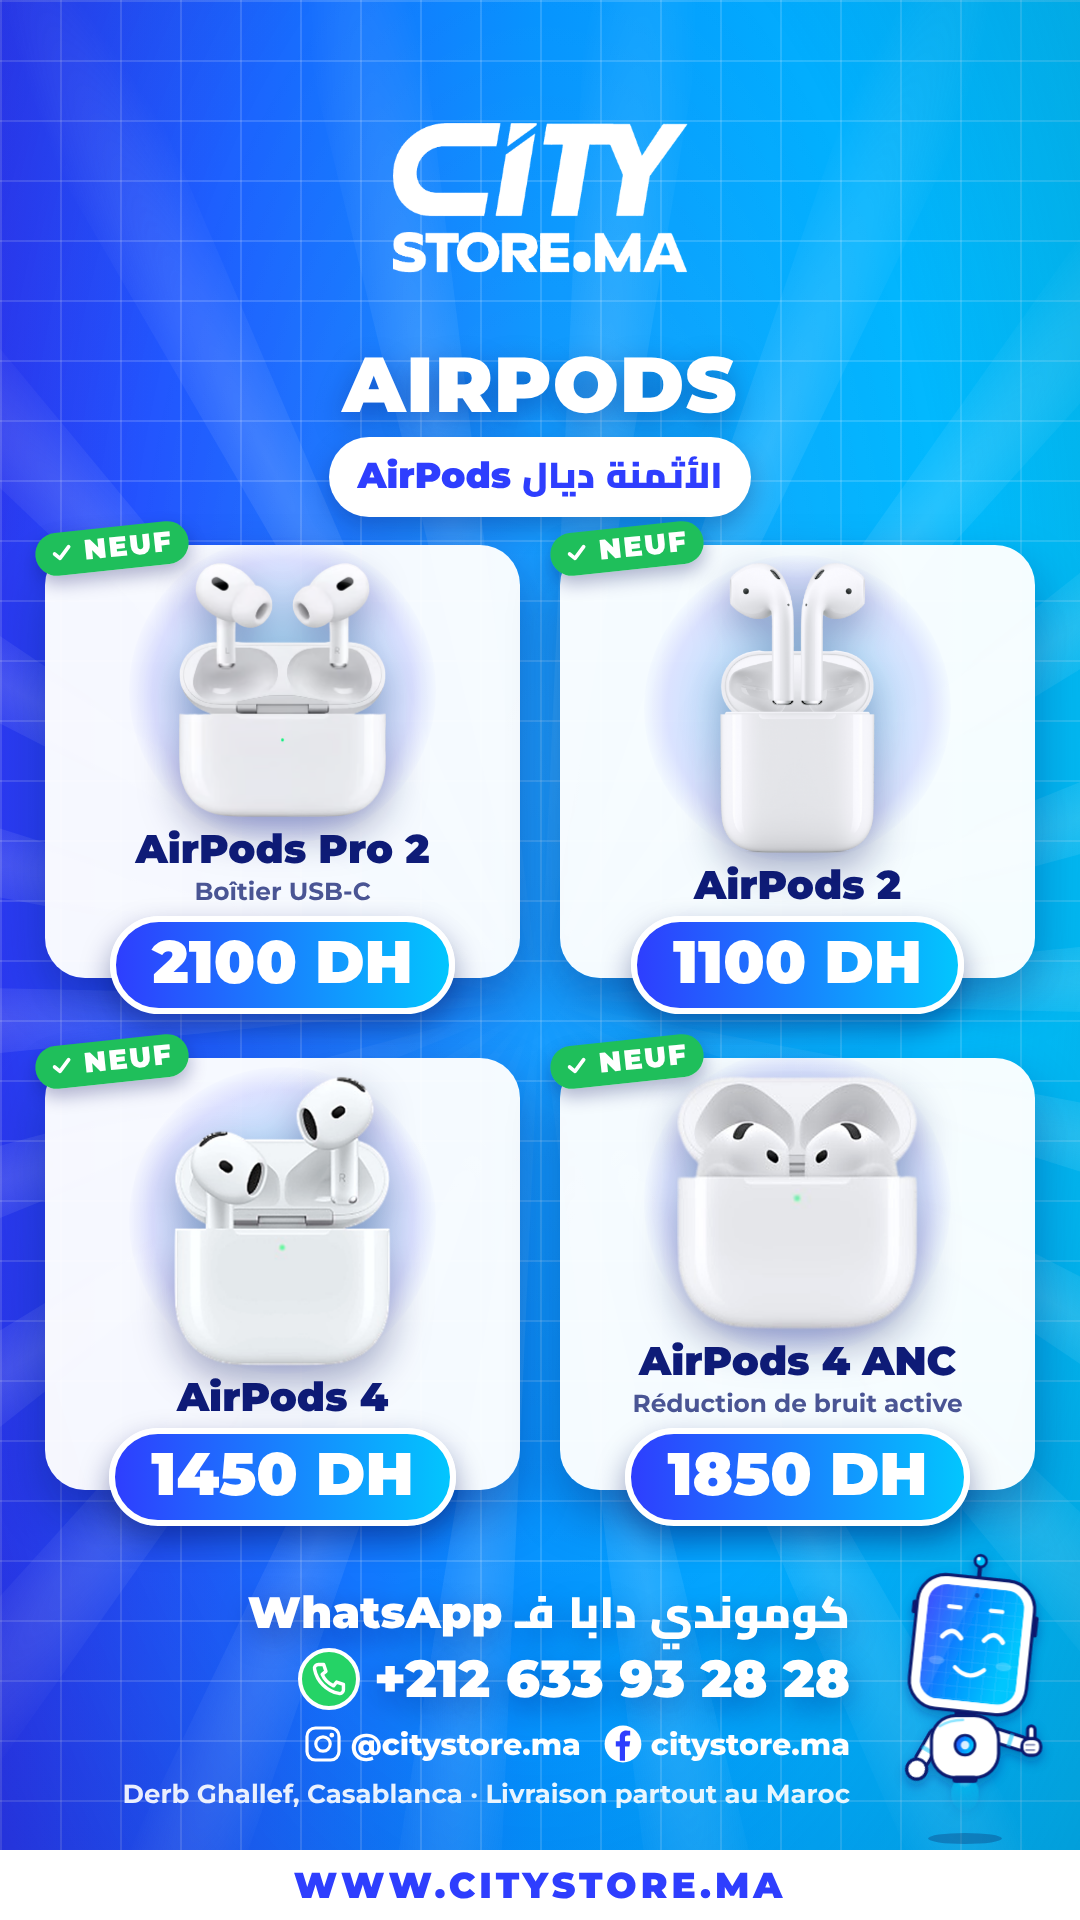
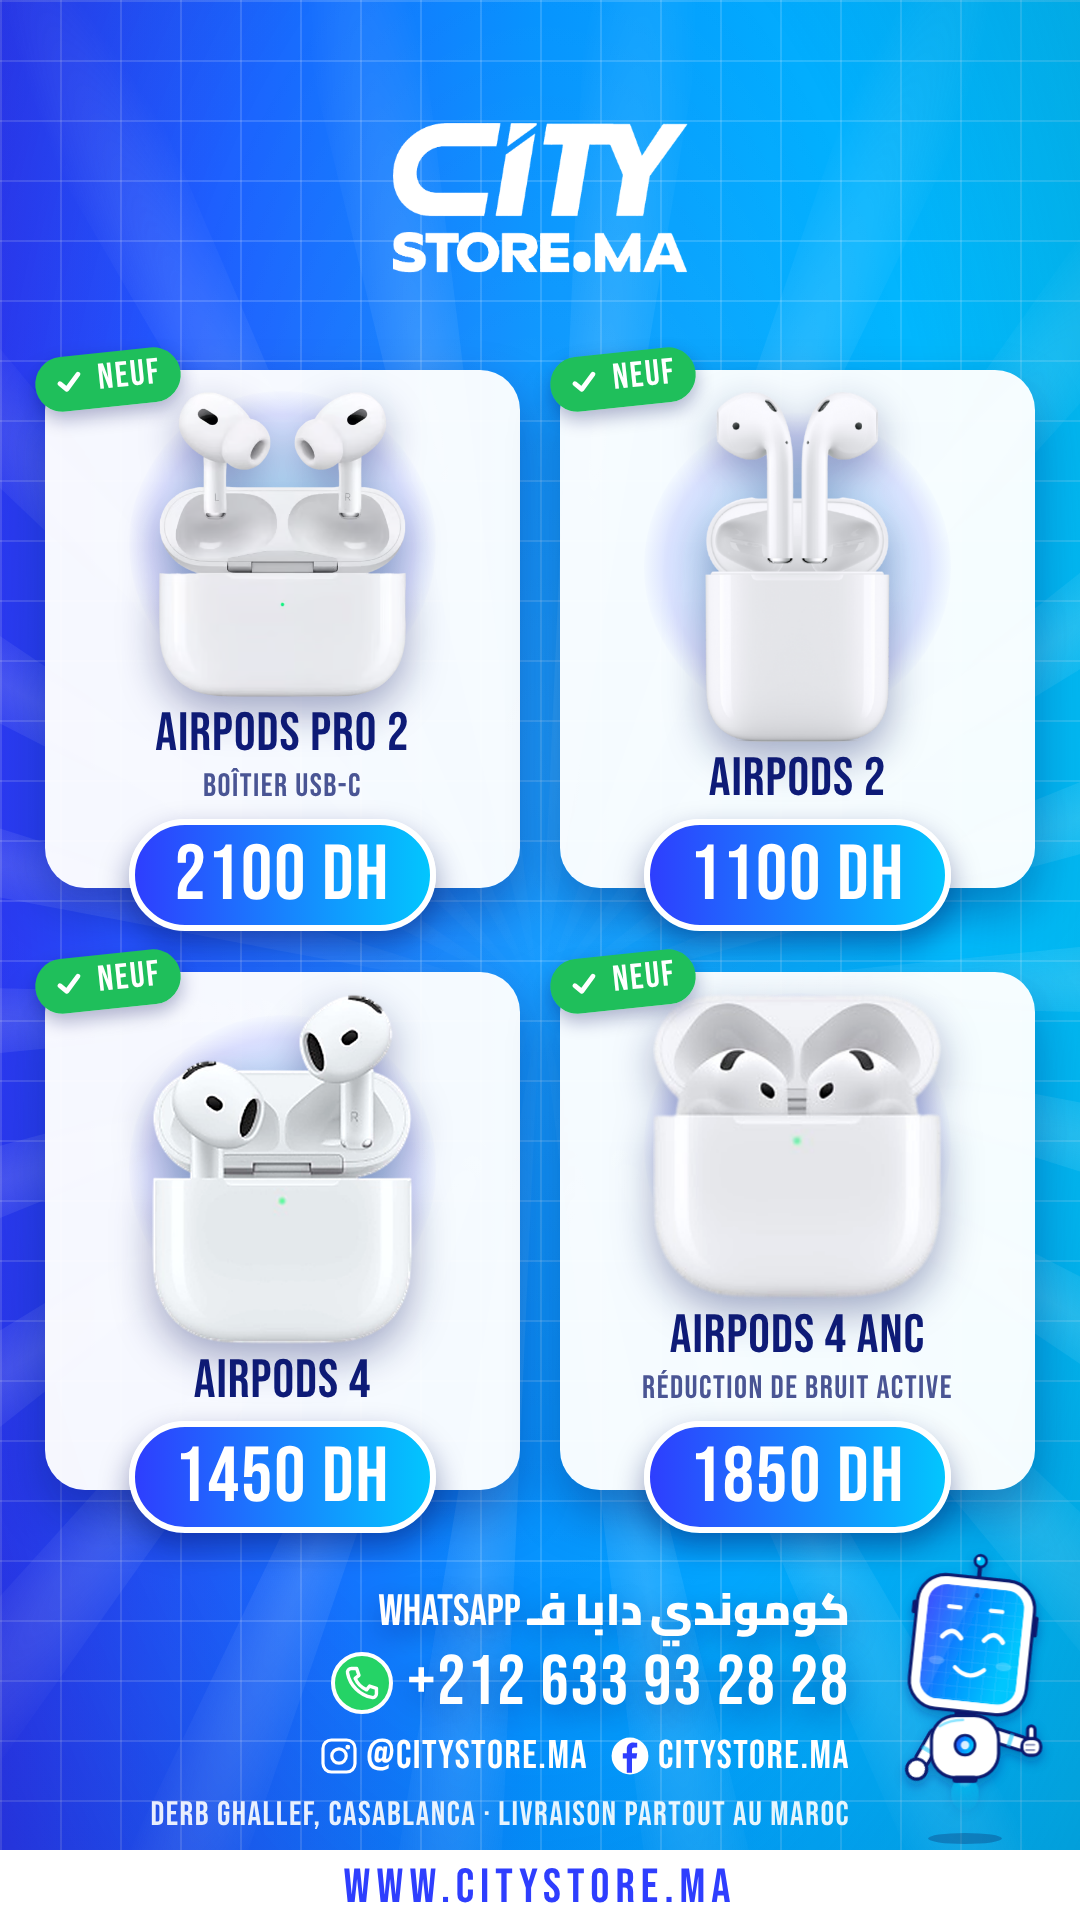
Price list: Bebas Neue font, optional header (removed on the AirPods list)
Claude-Session: https://claude.ai/code/session_01B6UvVnyVQqoyQ1GwELGaCV

Changed region(s): [[0.0306, 0.1562, 0.9778, 1.0]]

diff --git a/src/pricelist/PriceList.tsx b/src/pricelist/PriceList.tsx
@@ -1,6 +1,6 @@
 import React from "react";
 import { AbsoluteFill, Img, staticFile } from "remotion";
-import { COLORS, FONT } from "../brand";
+import { COLORS, FONT_DISPLAY } from "../brand";
 import { BrandBackground } from "../components/BrandBackground";
 import { FacebookGlyph, LineIcon } from "../components/Icons";
 import { Burst } from "../components/SceneShell";
@@ -24,19 +24,22 @@ export type PriceItem = {
   rotate?: number;
 };
 export type PriceListProps = {
-  title: string;
+  /** optional header under the logo; without title and subtitle the cards move up */
+  title?: string;
   subtitle?: string; // small pill under the title (Darija or French)
   items: PriceItem[];
   whatsapp?: string;
   footnote?: string;
 };
 
+// Bebas Neue everywhere (Arabic falls back to Cairo); it is condensed, so sizes run ~1.3x Montserrat's
+const F = FONT_DISPLAY;
 const GREEN = "#1FBF5B";
 const ORANGE = "#FF7A1A";
 const INK = "#0F1C78";
 
 const Condition: React.FC<{ c: "neuf" | "occasion"; size: number }> = ({ c, size }) => (
-  <div style={{ display: "inline-flex", alignItems: "center", gap: size * 0.25, background: c === "neuf" ? GREEN : ORANGE, color: "#fff", fontFamily: FONT, fontWeight: 900, fontSize: size, letterSpacing: 2, padding: `${size * 0.12}px ${size * 0.55}px ${size * 0.2}px ${size * 0.4}px`, borderRadius: 999 }}>
+  <div style={{ display: "inline-flex", alignItems: "center", gap: size * 0.25, background: c === "neuf" ? GREEN : ORANGE, color: "#fff", fontFamily: F, fontWeight: 900, fontSize: size, letterSpacing: 2, padding: `${size * 0.12}px ${size * 0.55}px ${size * 0.2}px ${size * 0.4}px`, borderRadius: 999 }}>
     <LineIcon name="check" size={size * 1.1} stroke={12} color="#fff" />
     {c === "neuf" ? "NEUF" : "OCCASION"}
   </div>
@@ -44,21 +47,21 @@ const Condition: React.FC<{ c: "neuf" | "occasion"; size: number }> = ({ c, size
 
 const Card: React.FC<{ it: PriceItem; w: number; h: number }> = ({ it, w, h }) => {
   const big = h > 420;
-  const nameSize = big ? 40 : 34;
-  const priceSize = big ? 60 : 50;
+  const nameSize = big ? 54 : 46;
+  const priceSize = big ? 78 : 66;
   return (
-    <div style={{ position: "relative", width: w, height: h, background: "rgba(255,255,255,0.96)", borderRadius: 40, boxShadow: "0 24px 50px rgba(6,14,90,0.35)", display: "flex", flexDirection: "column", alignItems: "center", padding: `18px 18px ${priceSize * 1.2}px` }}>
+    <div style={{ position: "relative", width: w, height: h, background: "rgba(255,255,255,0.96)", borderRadius: 40, boxShadow: "0 24px 50px rgba(6,14,90,0.35)", display: "flex", flexDirection: "column", alignItems: "center", padding: `22px 18px ${priceSize * 1.05}px` }}>
       {/* product photo on a soft brand glow; takes whatever height the text leaves */}
       <div style={{ position: "relative", flex: 1, minHeight: 0, width: "100%", display: "flex", alignItems: "center", justifyContent: "center" }}>
         <div style={{ position: "absolute", width: "70%", aspectRatio: "1", borderRadius: "50%", background: `radial-gradient(circle, ${COLORS.cyan}55 0%, ${COLORS.blue}22 60%, rgba(255,255,255,0) 72%)` }} />
         <Img src={staticFile(it.img)} style={{ position: "relative", maxWidth: "92%", maxHeight: "100%", transform: `scale(${it.scale ?? 1}) rotate(${it.rotate ?? 0}deg)`, filter: "drop-shadow(0 16px 20px rgba(6,14,90,0.35))" }} />
       </div>
-      <div style={{ marginTop: 10, textAlign: "center", fontFamily: FONT, fontWeight: 900, fontSize: nameSize, lineHeight: 1.05, color: INK }}>{it.name}</div>
-      {it.spec && <div style={{ marginTop: 6, fontFamily: FONT, fontWeight: 700, fontSize: nameSize * 0.62, color: "#4A5594" }}>{it.spec}</div>}
+      <div style={{ marginTop: 10, textAlign: "center", fontFamily: F, fontWeight: 900, fontSize: nameSize, lineHeight: 1, letterSpacing: 1, color: INK }}>{it.name}</div>
+      {it.spec && <div style={{ marginTop: 6, fontFamily: F, fontWeight: 700, fontSize: nameSize * 0.6, letterSpacing: 1.5, color: "#4A5594" }}>{it.spec}</div>}
       {/* NEUF / OCCASION badge on the top-left corner */}
-      {it.condition && <div style={{ position: "absolute", top: -18, left: -10, transform: "rotate(-6deg)", boxShadow: "0 8px 18px rgba(6,14,90,0.3)", borderRadius: 999 }}><Condition c={it.condition} size={big ? 28 : 24} /></div>}
+      {it.condition && <div style={{ position: "absolute", top: -18, left: -10, transform: "rotate(-6deg)", boxShadow: "0 8px 18px rgba(6,14,90,0.3)", borderRadius: 999 }}><Condition c={it.condition} size={big ? 36 : 32} /></div>}
       {/* price tag overlapping the bottom edge */}
-      <div style={{ position: "absolute", bottom: -priceSize * 0.6, background: `linear-gradient(90deg, ${COLORS.blue}, ${COLORS.cyan})`, color: "#fff", fontFamily: FONT, fontWeight: 900, fontSize: priceSize, lineHeight: 1, padding: "10px 36px 16px", borderRadius: 999, border: "6px solid #fff", boxShadow: "0 14px 30px rgba(6,14,90,0.4)", whiteSpace: "nowrap" }}>
+      <div style={{ position: "absolute", bottom: -priceSize * 0.55, background: `linear-gradient(90deg, ${COLORS.blue}, ${COLORS.cyan})`, color: "#fff", fontFamily: F, fontWeight: 900, fontSize: priceSize, lineHeight: 1, letterSpacing: 2, padding: "12px 40px 10px", borderRadius: 999, border: "6px solid #fff", boxShadow: "0 14px 30px rgba(6,14,90,0.4)", whiteSpace: "nowrap" }}>
         {it.price}
       </div>
     </div>
@@ -69,10 +72,11 @@ export const PriceList: React.FC<PriceListProps> = ({ title, subtitle, items, wh
   const n = Math.max(1, Math.min(items.length, 6));
   const rows = n <= 2 ? 1 : n <= 4 ? 2 : 3;
   const cols = n === 1 ? 1 : 2;
-  const gridTop = 545, gridBottom = 1490, gapX = 40, gapY = 80;
+  const header = !!(title || subtitle);
+  const gridTop = header ? 545 : 370, gridBottom = 1490, gapX = 40, gapY = 84;
   const w = cols === 1 ? 640 : 475;
   const h = Math.min(600, (gridBottom - gridTop - gapY * (rows - 1)) / rows);
-  const heavy: React.CSSProperties = { fontFamily: FONT, fontWeight: 900, color: "#fff", lineHeight: 1, textShadow: "0 10px 30px rgba(8,20,110,0.4)", whiteSpace: "nowrap" };
+  const heavy: React.CSSProperties = { fontFamily: F, fontWeight: 900, color: "#fff", lineHeight: 1, textShadow: "0 10px 30px rgba(8,20,110,0.4)", whiteSpace: "nowrap" };
   return (
     <AbsoluteFill>
       <BrandBackground drift={false} />
@@ -82,13 +86,13 @@ export const PriceList: React.FC<PriceListProps> = ({ title, subtitle, items, wh
         <Img src={staticFile("logo/city.png")} style={{ width: 300 }} />
         <Img src={staticFile("logo/storema.png")} style={{ width: 300 }} />
       </div>
-      {/* title */}
-      <div style={{ position: "absolute", top: 345, left: 0, right: 0, display: "flex", flexDirection: "column", alignItems: "center", gap: 14 }}>
-        <div style={{ ...heavy, fontSize: title.length > 16 ? 64 : 78, letterSpacing: 1 }}>{title}</div>
+      {/* title (optional) */}
+      {header && <div style={{ position: "absolute", top: 345, left: 0, right: 0, display: "flex", flexDirection: "column", alignItems: "center", gap: 14 }}>
+        {title && <div style={{ ...heavy, fontSize: title.length > 16 ? 84 : 100, letterSpacing: 2 }}>{title}</div>}
         {subtitle && (
-          <div dir="auto" style={{ background: "#fff", color: COLORS.blue, fontFamily: FONT, fontWeight: 900, fontSize: 36, padding: "4px 28px 8px", borderRadius: 999, boxShadow: "0 10px 26px rgba(6,14,90,0.3)", whiteSpace: "nowrap" }}>{subtitle}</div>
+          <div dir="auto" style={{ background: "#fff", color: COLORS.blue, fontFamily: F, fontWeight: 900, fontSize: 44, letterSpacing: 1, padding: "6px 28px 4px", borderRadius: 999, boxShadow: "0 10px 26px rgba(6,14,90,0.3)", whiteSpace: "nowrap" }}>{subtitle}</div>
         )}
-      </div>
+      </div>}
       {/* products */}
       <div style={{ position: "absolute", top: gridTop, left: 0, right: 0, display: "flex", flexWrap: "wrap", justifyContent: "center", columnGap: gapX, rowGap: gapY }}>
         {items.slice(0, 6).map((it, i) => (
@@ -102,19 +106,19 @@ export const PriceList: React.FC<PriceListProps> = ({ title, subtitle, items, wh
           <div style={{ width: 62, height: 62, borderRadius: "50%", background: "#25D366", display: "flex", alignItems: "center", justifyContent: "center", border: "4px solid #fff" }}>
             <LineIcon name="call" size={38} stroke={9} color="#fff" />
           </div>
-          <div style={{ ...heavy, fontSize: 52 }}>{whatsapp}</div>
+          <div style={{ ...heavy, fontSize: 70, letterSpacing: 2 }}>{whatsapp}</div>
         </div>
-        <div style={{ display: "flex", gap: 22, alignSelf: "flex-end", alignItems: "center", fontFamily: FONT, fontWeight: 800, fontSize: 30, color: "#fff" }}>
+        <div style={{ display: "flex", gap: 22, alignSelf: "flex-end", alignItems: "center", fontFamily: F, fontWeight: 800, fontSize: 40, letterSpacing: 1.5, color: "#fff" }}>
           <span style={{ display: "flex", alignItems: "center", gap: 8 }}><LineIcon name="instagram" size={40} stroke={8} />{SOCIAL.instagram}</span>
           <span style={{ display: "flex", alignItems: "center", gap: 8 }}><FacebookGlyph size={40} />{SOCIAL.facebook}</span>
         </div>
-        <div style={{ alignSelf: "flex-end", fontFamily: FONT, fontWeight: 700, fontSize: 26, color: "rgba(255,255,255,0.9)" }}>{footnote}</div>
+        <div style={{ alignSelf: "flex-end", fontFamily: F, fontWeight: 700, fontSize: 34, letterSpacing: 1.5, color: "rgba(255,255,255,0.9)" }}>{footnote}</div>
       </div>
       <div style={{ position: "absolute", right: 10, top: 1555 }}>
         <Citybot id="pricelist" width={210} expression="happy" mouth="smile" tilt={6} rightArm={{ rot: 72, hand: "thumb" }} leftArm={{ rot: 30, hand: "open" }} hover={8} />
       </div>
       {/* website bar */}
-      <div style={{ position: "absolute", bottom: 0, left: 0, right: 0, height: 70, background: "#fff", display: "flex", alignItems: "center", justifyContent: "center", fontFamily: FONT, fontWeight: 900, fontSize: 36, color: COLORS.blue, letterSpacing: 4 }}>
+      <div style={{ position: "absolute", bottom: 0, left: 0, right: 0, height: 70, background: "#fff", display: "flex", alignItems: "center", justifyContent: "center", fontFamily: F, fontWeight: 900, fontSize: 48, color: COLORS.blue, letterSpacing: 6, paddingTop: 4 }}>
         WWW.CITYSTORE.MA
       </div>
     </AbsoluteFill>

diff --git a/src/brand.ts b/src/brand.ts
@@ -24,6 +24,8 @@ export const GRID = { pitch: 60, opacity: 0.15, lineWidth: 2 };
 // using @remotion/google-fonts' manifest. latin-ext covers é è à ç ô œ etc.
 // Cairo covers Arabic script (Darija subtitles/titles); CSS falls back to it per glyph.
 export const FONT = "Montserrat, Cairo";
+// Bebas Neue (SIL OFL, single weight; declared over 100-900 so bold text is never faux-bolded): price-list stories
+export const FONT_DISPLAY = "'Bebas Neue', Cairo";
 export const fontsReady = Promise.all(
   (fontManifest as { family?: string; file: string; unicodeRange: string }[]).map((f) =>
     loadFont({

diff --git a/src/pricelist/lists.ts b/src/pricelist/lists.ts
@@ -29,8 +29,6 @@ export const PRICE_LISTS: Record<string, PriceListProps> = {
     ],
   },
   airpods: {
-    title: "AIRPODS",
-    subtitle: "الأثمنة ديال AirPods",
     items: [
       { name: "AirPods Pro 2", img: "pricelist/airpods/pro2.png", price: "2100 DH", condition: "neuf", spec: "Boîtier USB-C" },
       { name: "AirPods 2", img: "pricelist/airpods/airpods2.png", price: "1100 DH", condition: "neuf" },

diff --git a/README.md b/README.md
@@ -47,7 +47,7 @@ npm run studio                   # interactive preview
   citystore.ma, hashtags. Minimal emojis: only 📩 (CTA) and 🌐 (site).
 
 ## Price-list stories (9:16 stills)
-`src/pricelist/PriceList.tsx` is a City Store price-list story: logo, title, optional subtitle pill, 2-6 product cards
+`src/pricelist/PriceList.tsx` is a City Store price-list story (font: Bebas Neue, SIL OFL; Arabic in Cairo): logo, optional title + subtitle pill, 2-6 product cards
 (official cut-out, name, optional spec line, NEUF / OCCASION badge, price), the WhatsApp number, socials, address and
 `WWW.CITYSTORE.MA`. Add an entry to `src/pricelist/lists.ts` (one per story), then run
 `npx remotion still PriceList-<id> out/pricelist/<id>.png`. Layout: 1-2 items use one row, 3-4 use 2x2, 5-6 use 2x3.
